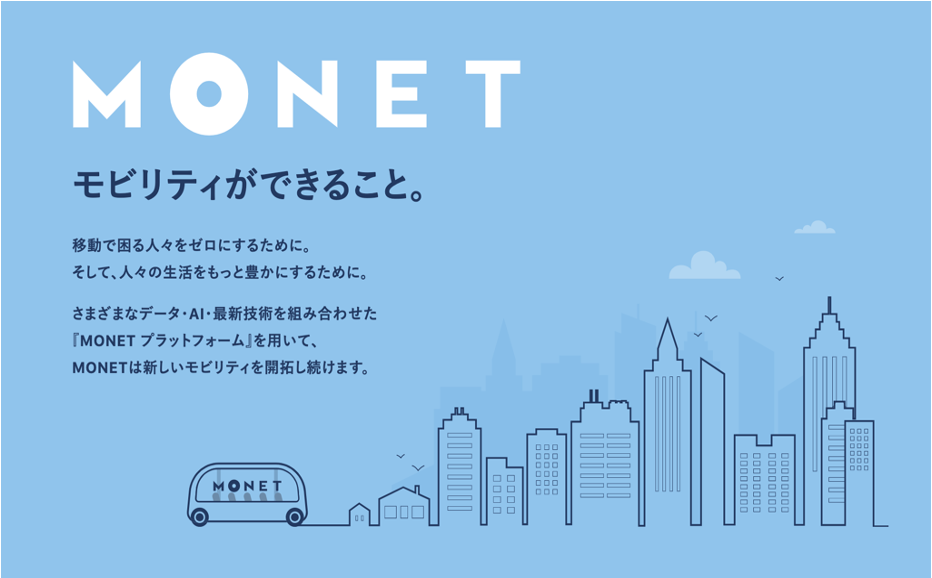
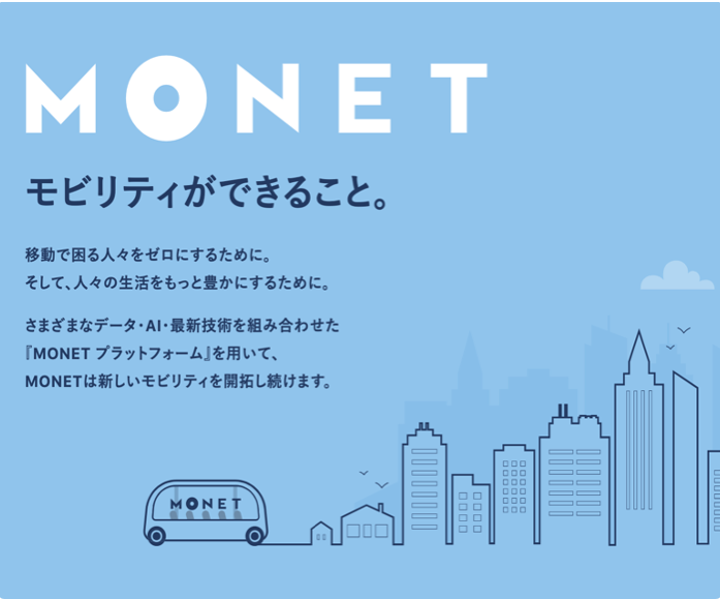
update design

diff --git a/index.html b/index.html
@@ -150,7 +150,7 @@
   </div>
 
   <!-- SECTION EXAMPLE -->
-  <div id="example" class="section light example outline-none">
+  <div id="example" class="section light example outline-none" style="background-color: #f6f6f6;">
     <h2 class="section-title">EXAMPLE</h2>
     <p class="section-sub-title">
       私たちの開発例の一部をご紹介します。<br>
@@ -163,7 +163,7 @@
           <div class="item clearfix">
             <h2 class="title">Imstream（全体）</h2>
             <div class="sample-image">
-              <img src="./img/samples/imstream.png">
+              <img src="./img/samples/imstream.jpg">
             </div>
             <div class="sample-description">
               <h3>to1 LABO様</h3>
@@ -188,9 +188,37 @@
             </div>
           </div>
           <div class="item clearfix">
+            <h2 class="title">Luna Labo</h2>
+            <div class="sample-image">
+              <img src="./img/samples/luna.jpg">
+            </div>
+            <div class="sample-description">
+              <h3>to1 labo様</h3>
+              <p>
+                「Lunapp」は全国の美容室・面貸しサロン・シェアサロン・レンタルサロンで、24時間いつでも専予約が可能なアプリです！ <br>
+                ・面倒な履歴書提出を一括管理！ <br>
+                ・たくさんの美容室に簡単送信
+              </p>
+
+              <h3 class="mb-1">技術</h3>
+              <p class="mt-0">
+                ・Ruby (Ruby on Rails) <br>
+                ・AWS (EC2, RDS, S3, Redis) <br>
+                ・ビデオチャット
+              </p>
+
+              <h3 class="mb-1">契約</h3>
+              <p class="mt-0">ラボ型　3人月</p>
+
+              <div class="links">
+                <a target="_blank" href="https://imstream.jp/">Web</a>
+              </div>
+            </div>
+          </div>
+          <div class="item clearfix">
             <h2 class="title">WEALTHCARE（全体）</h2>
             <div class="sample-image">
-              <img src="./img/samples/wealthcare.png">
+              <img src="./img/samples/wealthcare.jpg">
             </div>
             <div class="sample-description">
               <h3>Sasuke Financial Lab株式会社様</h3>
@@ -250,7 +278,7 @@
           <div class="item clearfix">
             <h2 class="title">MONET（Webとサーバ）</h2>
             <div class="sample-image">
-              <img src="./img/samples/monet.png">
+              <img src="./img/samples/monet.jpg">
             </div>
             <div class="sample-description">
               <h3>MONET Technologies様</h3>
@@ -327,7 +355,7 @@
           <div class="item clearfix">
             <h2 class="title">Wakumo（全体）</h2>
             <div class="sample-image">
-              <img src="./img/samples/wakumo.png">
+              <img src="./img/samples/wakumo.jpg">
             </div>
             <div class="sample-description">
               <h3>株式会社ネオキャリア　様</h3>

diff --git a/css/main.css b/css/main.css
@@ -708,11 +708,12 @@ body {
 .member-modal .info { padding: 90px 30px 40px 30px; }
 .member-modal .name { font-size: 18px; font-weight: 700; }
 
-.samples-list .item .title { color: #3bb6ba; text-transform: uppercase; text-align: center; }
+.samples-list .item .title { color: #3bb6ba; text-transform: uppercase; text-align: center; margin-bottom: 30px; }
 .samples-list .item .title br { display: none; }
-.sample-image { width: 50%; float: left; padding: 20px; }
+.sample-image { width: 50%; float: left; }
 .sample-image img { width: 100%; }
-.sample-description { width: 50%; float: left; padding: 0 20px; }
+.sample-description { width: 50%; float: left; padding: 0 20px 0 30px; }
+.sample-description h3 { margin-top: 0; }
 .sample-description .links { margin-top: 30px; }
 .sample-description .links a {
   display: inline-block;

diff --git a/css/responsive.css b/css/responsive.css
@@ -107,18 +107,23 @@
     max-width: 750px;
   }
 
+  .samples-list .item .title br { display: inline-block; }
+  .samples-list .item .sample-description {
+    padding: 0;
+    margin-top: 20px;
+  }
+  .samples-list .item .sample-description,
+  .samples-list .item .sample-image {
+    width: 100%;
+    float: none;
+  }
+
 }
 
 
 @media (max-width: 768px) {
   .page-top {
     background-size: 80%;
-  }
-  .samples-list .item .title br { display: inline-block; }
-  .samples-list .item .sample-description,
-  .samples-list .item .sample-image {
-    width: 100%;
-    float: none;
   }
 }
 
